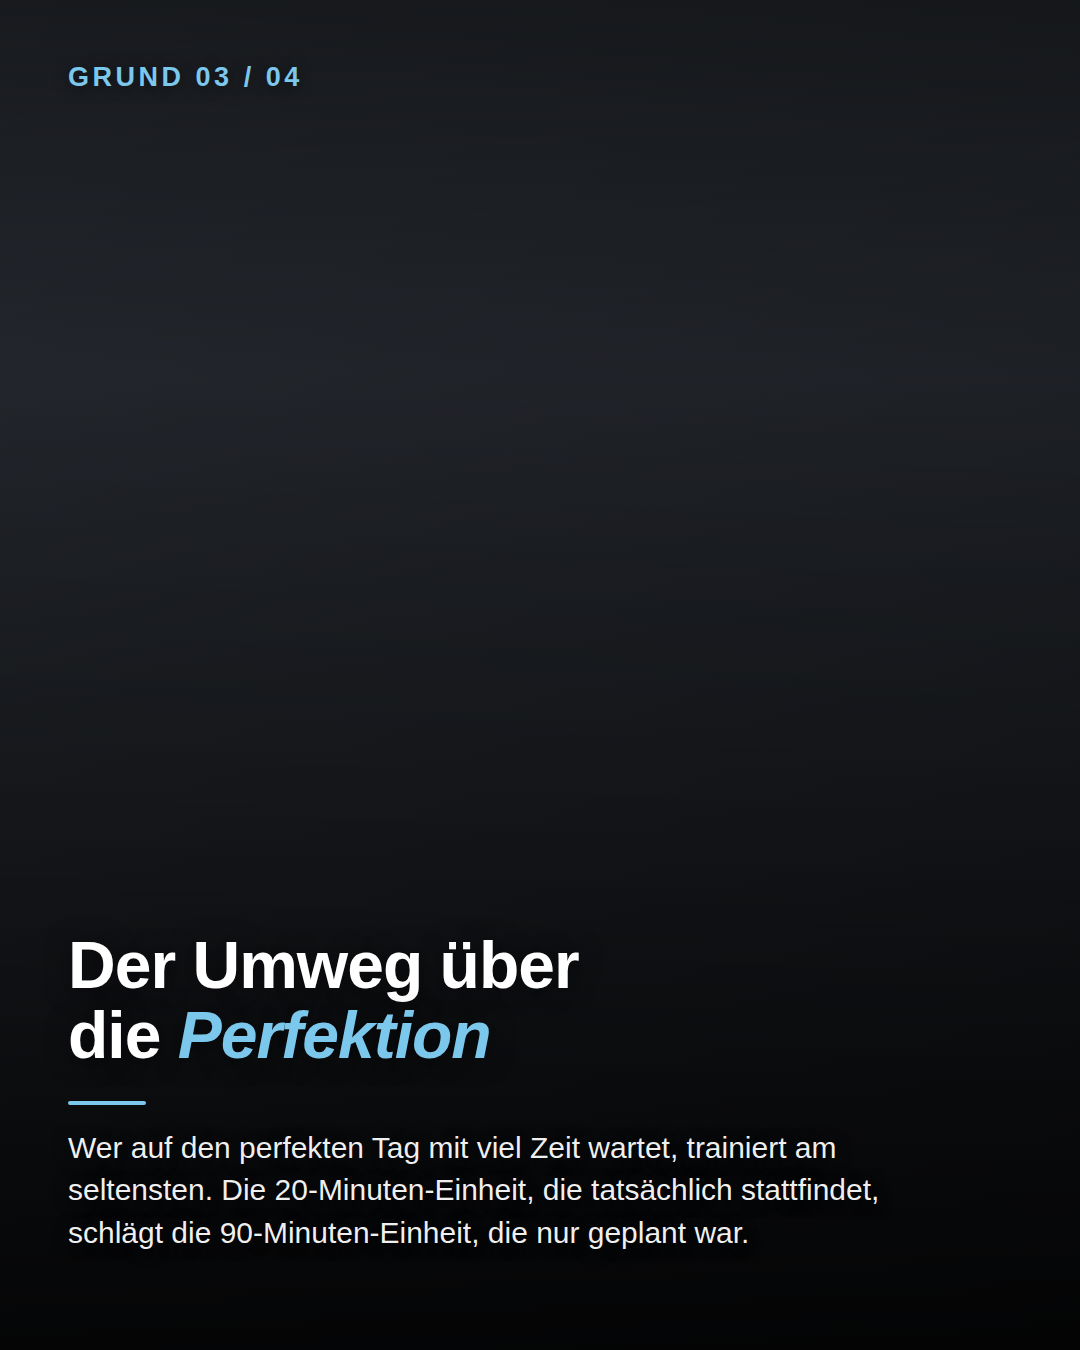
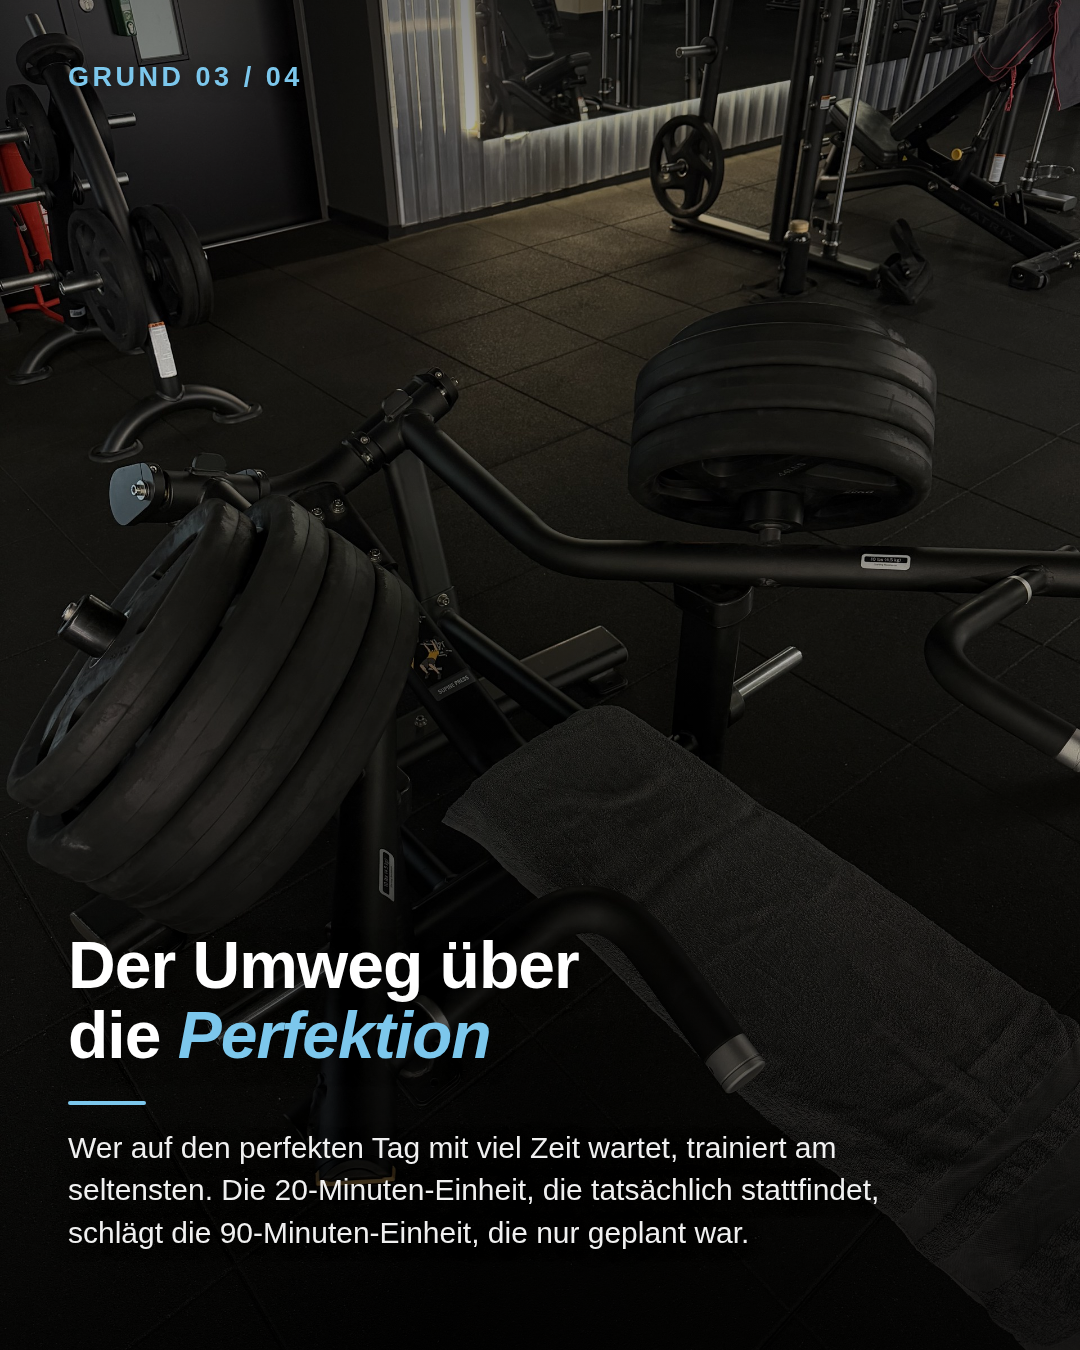
KW 39 mit Aarons eigenen Fotos neu bebildert
Auftrag aus prompts/uebergabe-w39.md. Texte und Captions unveraendert, nur
die Bebilderung.

Post 1 "Warum keine Zeit fast nie an der Zeit liegt":
- Grund 01: Aarons Wohnzimmer am Abend statt Stock-Fernseher
- Grund 03: bereitstehende Bank im Gym, der Slide war vorher ohne Foto
- Grund 04 bleibt Stock, im Pool liegt kein Kalender- oder Planer-Foto
- Grund 02 bleibt bewusst ohne Foto: Sporttasche an der Tuer oder Kalender
  mit zwei Terminen gibt der Pool nicht her, ein halb passendes Bild waere
  schlechter als der Verlauf

Post 2 "3 Regeln fuers Auswaertsessen":
- Cover: Aaron unterwegs mit Getraenk statt Stock-Bistrotisch. Kein
  Restaurant - als Cover erlaubt, aber im Post als zu pruefen vermerkt
- Regel 01 bis 03 bleiben Stock: Skyr, Torte und Fruehstueck zeigen genau,
  wovon die Slides sprechen; eigene Motive dazu fehlen

Alle neun Slides einzeln angesehen. Die groesste Luecke im Pool sind
Aufnahmen vom Auswaertsessen - in config/foto-historie.md vermerkt.

Claude-Session: https://claude.ai/code/session_01HQCAC1gXM5ymEH3L17w63v

diff --git a/posts/2026-W39/post-1.md b/posts/2026-W39/post-1.md
@@ -21,25 +21,30 @@ verschwindet, ohne den Leser der Faulheit zu bezichtigen. Ziel: die Diagnose von
 | # | Zähler | Headline | Foto |
 |---|---|---|---|
 | 1 | `1/5` | Warum "keine Zeit" fast nie an der *Zeit* liegt. | Am Kartenautomaten, abends unterwegs |
-| 2 | `GRUND 01 / 04` | Es ist eine *Prioritäten*-Frage | Fernseher im Wohnzimmer, Lampe an, abends — Foto: Stock (CC0, Wikimedia) |
+| 2 | `GRUND 01 / 04` | Es ist eine *Prioritäten*-Frage | Wohnzimmer mit Sofa am Abend (IMG_9811, eigenes Foto) |
 | 3 | `GRUND 02 / 04` | Du rechnest mit der *falschen* Zahl | KEIN PASSENDES FOTO |
-| 4 | `GRUND 03 / 04` | Der Umweg über die *Perfektion* | KEIN PASSENDES FOTO |
+| 4 | `GRUND 03 / 04` | Der Umweg über die *Perfektion* | Bereitstehende Bank mit Handtuch im Gym (IMG_8261, eigenes Foto) |
 | 5 | `GRUND 04 / 04` | Am Ende zählt der *Kalender* | Handy, Notizbuch und Stift auf dem Schreibtisch — Foto: Stock (CC0, Wikimedia) |
 
 **Foto-Begründungen:**
 
 1. Cover — Am Kartenautomaten, abends unterwegs, Alltagserledigung im Dunkeln:
    genau das Bild von "keine Zeit haben" — mitten in Erledigungen, nicht im Gym.
-2. Grund 01 — Zu sehen: ein Fernseher im Wohnzimmer, daneben eine
-   Stehlampe, abends. Slide: "Zwei Stunden Serie am Abend sind eine
-   Entscheidung." Das Foto zeigt genau diesen Abend. (`stock/frei-bildschirm-03.jpeg`)
-3. Grund 04 — Zu sehen: Handy, Notizbuch und Stift auf einem Holztisch.
-   Slide: Termine, die wirklich im Kalender stehen. Das Foto zeigt die
-   Planungssituation. (`stock/frei-handy-01.jpeg`)
-4. Grund 02 und 03 — Kein passendes Foto. Ein Tischkalender war im Test,
-   dessen Schrift ("MAY") stand aber direkt neben der Headline. Gebraucht
-   würde: Trainingstasche an der Wohnungstür (Grund 02), eine kurze Einheit
-   zuhause mit sichtbarer Uhr (Grund 03).
+2. Grund 01 — Zu sehen: Aarons Wohnzimmer am Abend, Sofa und Vorhänge.
+   Slide: "Zwei Stunden Serie am Abend sind eine Entscheidung." Das Foto zeigt
+   den Ort, an dem dieser Abend verbracht wird. Ersetzt das Stock-Bild mit dem
+   Fernseher. (`IMG_9811.jpeg`)
+3. Grund 03 — Zu sehen: eine bereitstehende Bank mit Handtuch, Scheiben
+   aufgelegt. Slide: "Die 20-Minuten-Einheit, die tatsächlich stattfindet,
+   schlägt die 90-Minuten-Einheit, die nur geplant war." Das Foto zeigt genau
+   die Einheit, die stattfindet. (`IMG_8261.jpeg`)
+4. Grund 04 — Zu sehen: Handy, Notizbuch und Stift auf einem Holztisch.
+   Slide: Termine, die wirklich im Kalender stehen. Bleibt Stock, weil im Pool
+   kein eigenes Kalender- oder Planer-Foto liegt. (`stock/frei-handy-01.jpeg`)
+5. Grund 02 — Weiterhin kein passendes Foto. Gebraucht würde eine gepackte
+   Sporttasche an der Wohnungstür oder ein Kalender mit zwei eingetragenen
+   Terminen. Beides liegt nicht im Pool; ein halb passendes Bild wäre hier
+   schlechter als der Verlauf.
 
 ## Caption
 

diff --git a/posts/2026-W39/post-2.md b/posts/2026-W39/post-2.md
@@ -21,18 +21,22 @@ nächsten Tag.
 
 | # | Zähler | Headline | Foto |
 |---|---|---|---|
-| 1 | `1/4` | 3 Regeln fürs Auswärtsessen, die keine Woche *ruinieren*. | Bistrotisch im Restaurant, unscharfer Hintergrund — Foto: Stock (CC0, Wikimedia) |
+| 1 | `1/4` | 3 Regeln fürs Auswärtsessen, die keine Woche *ruinieren*. | Aaron unterwegs mit Getränk in der Hand (DSC06682, eigenes Foto) |
 | 2 | `REGEL 01 / 03` | Vorher nicht *hungrig* hinsetzen | Skyr mit Brombeeren in dunkler Schale — Foto: Stock (CC0, Wikimedia) |
 | 3 | `REGEL 02 / 03` | Eine *Entscheidung*, nicht der ganze Abend | Ein Stück Torte im Café — Foto: Stock (CC0, Wikimedia) |
 | 4 | `REGEL 03 / 03` | Der *nächste* Tag zählt mehr als der Abend | Normales Frühstück mit Toast, Saft und Kaffee — Foto: Stock (CC0, Wikimedia) |
 
 **Foto-Begründungen:**
 
-1. Cover — Zu sehen: ein gedeckter Bistrotisch, Restaurant im Hintergrund.
-   Thema: Auswärtsessen. Ersetzt das Stadtfoto am Schloss, das nur Stimmung
-   war. Abweichung von der Regel "Cover mit Aaron": bewusst, weil kein eigenes
-   Restaurantfoto im Pool liegt. (`stock/frei-restaurant-05.jpeg`)
-2. Regel 01 — Zu sehen: Skyr mit Brombeeren. Slide: "eine kleine Portion
+1. Cover — Zu sehen: Aaron unterwegs, Getränk in der Hand. Nach dem Format
+   trägt das Cover sein Gesicht, und Stimmungsbilder sind dort erlaubt. **Prüfen:**
+   Es ist kein Restaurant, sondern draußen in der Stadt. Ein eigenes Foto aus
+   Restaurant oder Kantine liegt nicht im Pool — wenn dir der Bezug zu schwach
+   ist, geht das Stock-Bistro zurück. (`DSC06682.jpeg`)
+2. Regel 01 — Bleibt Stock. Das Bild zeigt genau den Snack, den der Slide
+   nennt; das einzige eigene Alternativmotiv wäre eine zweite Kühlschrank-
+   Aufnahme, die dem Frühstücks-Post aus KW 42 zu ähnlich sähe.
+   Zu sehen: Skyr mit Brombeeren. Slide: "eine kleine Portion
    Protein vorher, ein Joghurt". Das Foto zeigt genau diesen Snack.
    (`stock/frei-skyr-02.jpeg`)
 3. Regel 02 — Zu sehen: ein Stück Torte auf einem Café-Tisch. Slide:

diff --git a/config/foto-historie.md b/config/foto-historie.md
@@ -101,3 +101,23 @@ Der Pool ist mit den Drive-Originalen vom September und deinem Upload vom
 | 2026-W42 | 2 | IMG_8260.jpeg | Hantelscheiben und Bank |
 | 2026-W42 | 2 | IMG_9803.jpeg | Wohnzimmer am Abend |
 | 2026-W42 | 2 | IMG_8259.jpeg | Trainingssituation im Gym |
+
+## 2026-W39, neu bebildert am 07.10.2026
+
+Beide Posts aus KW 39 nachträglich mit Aarons eigenen Fotos versehen
+(`prompts/uebergabe-w39.md`). Texte unverändert.
+
+| Woche | Post | Datei | Motiv | Hinweis |
+|---|---|---|---|---|
+| 2026-W39 | 1 | IMG_9811.jpeg | Wohnzimmer mit Sofa am Abend | ersetzt Stock-Fernseher |
+| 2026-W39 | 1 | IMG_8261.jpeg | bereitstehende Bank im Gym | Slide war vorher ohne Foto |
+| 2026-W39 | 2 | DSC06682.jpeg | Aaron unterwegs mit Getränk | ersetzt Stock-Bistrotisch |
+
+Unverändert geblieben, weil kein passendes eigenes Foto im Pool liegt:
+Grund 04 in Post 1 (Kalender, Stock) sowie Regel 01 bis 03 in Post 2
+(Skyr, Torte, Frühstück, alle Stock). Grund 02 in Post 1 bleibt ohne Foto.
+
+**Was dem Pool weiterhin fehlt:** eine gepackte Sporttasche an der Wohnungstür,
+ein Kalender oder Handy-Planer mit eingetragenen Terminen, und vor allem
+Aufnahmen vom Auswärtsessen — Restaurant, Kantine, Essen mit Freunden. Für
+Ernährungs-Posts ist das die größte Lücke.
